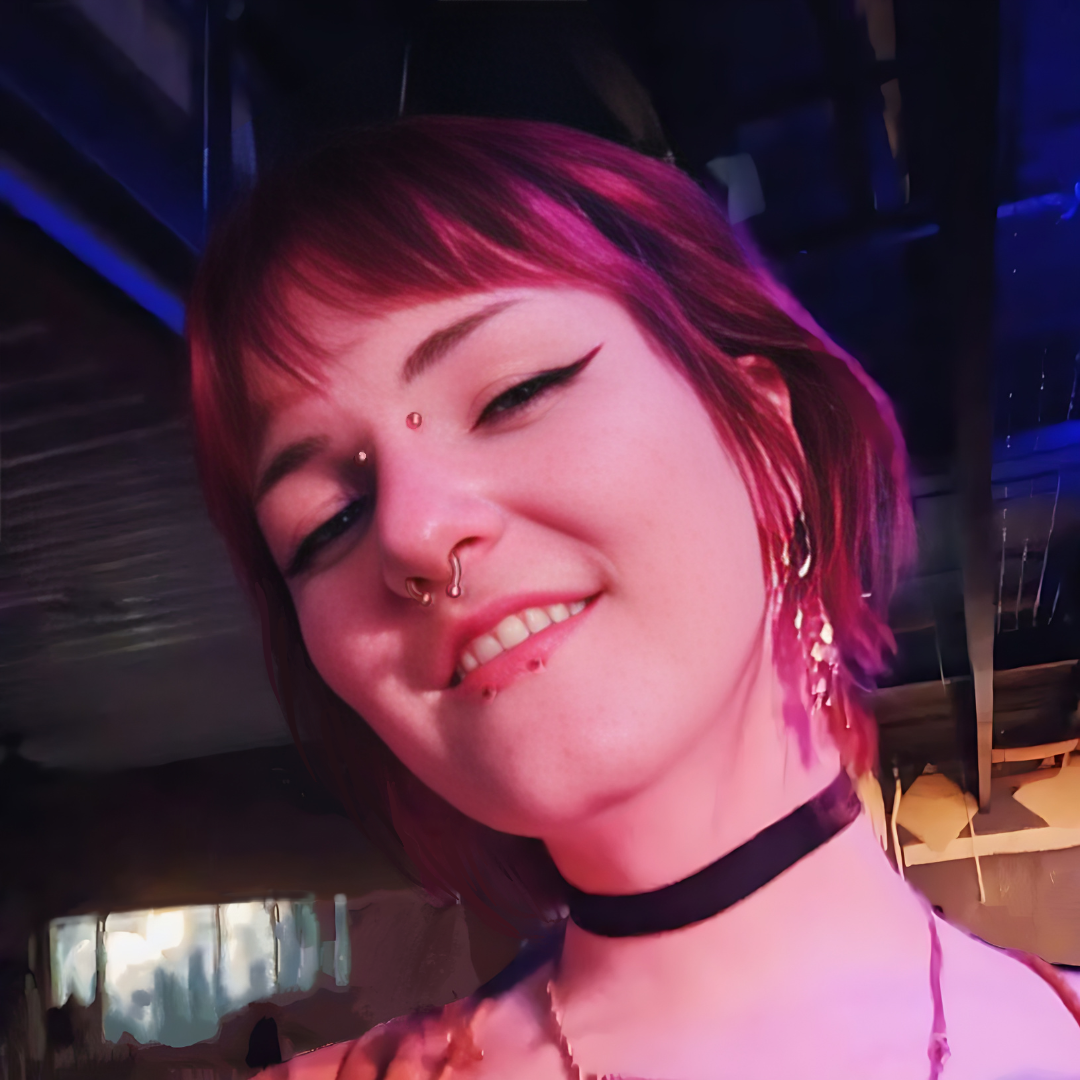
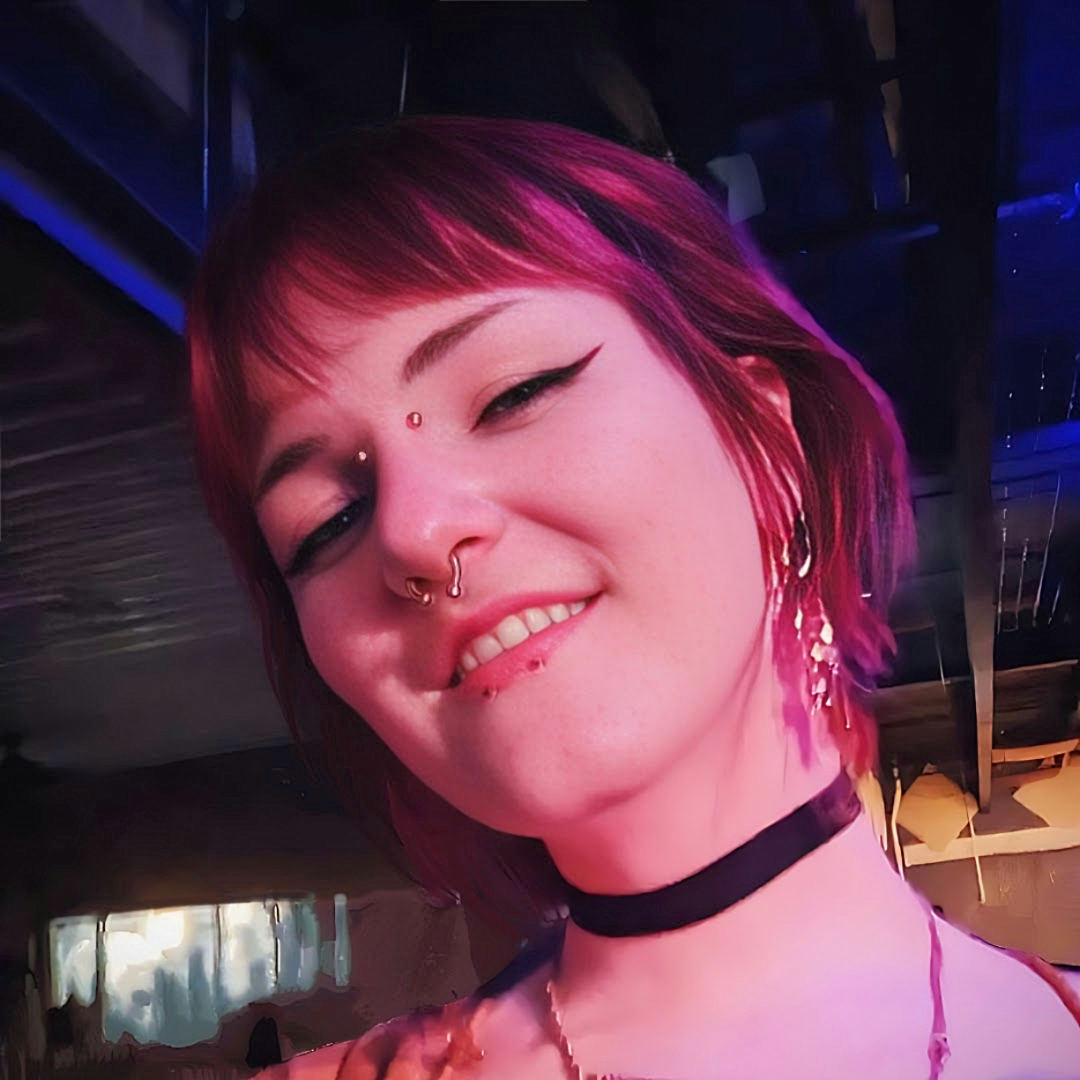
update: changed profile picture

Changed region(s): [[0.8556, 0.8861, 1.0, 1.0]]

diff --git a/dist/index.html b/dist/index.html
@@ -139,7 +139,7 @@
                 <div class="aspect-w-1 aspect-h-1">
                   <img
                     class="object-cover object-center rounded-3xl shadow-2xl"
-                    src="/assets/Morgan.e0dc2835.jpg"
+                    src="/assets/Morgan.d5d8d4a4.png"
                     alt=""
                   />
                 </div>
